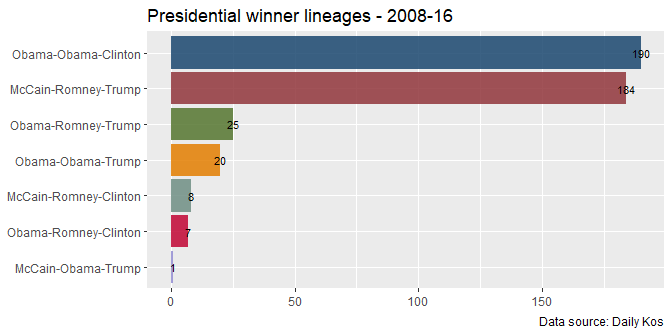
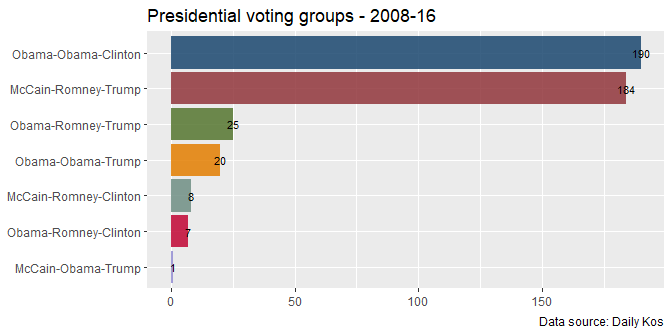
re

Changed region(s): [[0.3438, 0.0298, 0.6875, 0.0893]]

diff --git a/README.md b/README.md
@@ -1,11 +1,9 @@
 American political data & R: some open source resources & methods
 -----------------------------------------------------------------
 
-A layman's guide to accessing and exploring US political data from a collection of open government resources, including presidential election returns (2008-2016 by congressional district), lawmaker biographies & political ideologies, and congressional district demographics.
+A layman's guide to accessing and exploring US political data utilizing a collection of open government resources, including presidential election returns (2008-2016 by congressional district), lawmaker biographies & political ideologies, and congressional district demographics.
 
-Here, we integrate these resources to present ...
-
-Data presented here have been collated from [The Daily Kos](), [CivilServiceUSA](), and the R packages [tidycensus]() & [Rvoteview]().
+Data presented here have been collated from [The Daily Kos](https://www.dailykos.com/stories/2018/2/21/1742660/-The-ultimate-Daily-Kos-Elections-guide-to-all-of-our-data-sets), [CivilServiceUSA](https://github.com/CivilServiceUSA), and the R packages [tidycensus](https://walkerke.github.io/tidycensus/) & [Rvoteview](https://github.com/voteview/Rvoteview).
 
 -   [1 Lawmaker details](#1-Lawmaker-details)
 -   [2 Political Ideologies](#2-political-ideologies-and-congressional-composition)
@@ -124,7 +122,7 @@ csusa_house_dets %>%
                                  grow = F, 
                                  alpha = 0.65, 
                                  colour ="black",  
-                                 min.size = 0)+ 
+                                 size = 13)+ 
       treemapify::geom_treemap_text(colour = "white", 
                         place = "topleft", 
                         reflow = T,
@@ -456,8 +454,6 @@ us_house_districts %>%
        caption = 'Data source: ACS, 5-Year estimates, 2013-17, Table C15002')
 ```
 
-![](README_files/figure-markdown_github/unnamed-chunk-24-1.png)
-
 #### 5.3 Race & educational attainment profiles by district
 
 > Profiling congressional districts in terms of race/ethncitiy & educational attainment. Categories include *White with college degree*, *White without college degree*, *Non-White with college degree*, and *Non-White without college degree*. The **Non-White** population is defined more specifically as non-White (race) and/or Hispanic (ethnicity).
@@ -509,8 +505,6 @@ tree %>%
            caption = 'Source: ACS, 5-Year estimates, 2013-17, Table C15002')
 ```
 
-![](README_files/figure-markdown_github/unnamed-chunk-26-1.png)
-
 #### 5.4 White working class & Republican vote shares historically
 
 > A comparison of the relationship between the share of working class Whites and share of Republican candidate support by district for the last three presidential elections.
@@ -537,8 +531,6 @@ ggplot(data = by_pres, aes(x=Per_White_Working,
        caption = 'Data source: Daily Kos & American Community Survey')
 ```
 
-![](README_files/figure-markdown_github/unnamed-chunk-27-1.png)
-
 > **As the table below attests**, this relationship has grown stronger in the Trump era.
 
 ``` r
@@ -548,19 +540,13 @@ by_pres %>%
   knitr::kable()
 ```
 
-| candidate |  cor\_coefficient|
-|:----------|-----------------:|
-| McCain    |         0.6182315|
-| Romney    |         0.6603027|
-| Trump     |         0.7865170|
-
 ------------------------------------------------------------------------
 
 ### 6 Equal-area political geometries
 
-> The Daily Kos makes available a set of alternative geometries that represent congressional districts and states as equal-area polygons. As some of the maps presented above attest, America's larger states and congressional districts tend to overwhelm a standard map, and collectively serve to under-represent/hide smaller, more populous urban areas.
+> The Daily Kos makes available a set of alternative geometries that spatially represent congressional districts and states as equal-area polygons. As some of the maps presented above attest, America's larger states and congressional districts tend to overwhelm a standard map, and ultimately serve to under-represent/hide smaller, more populous urban areas.
 
-> **Links** to these shapefiles are presented below:
+> **Links** to these shapefiles are detailed below:
 
 ``` r
 base <- 'https://drive.google.com/uc?authuser=0&id='
@@ -597,7 +583,7 @@ dailykos_tile <- lapply (c(dailyvos_tile_inner,
 names(dailykos_tile) <- c('inner', 'outer')
 ```
 
-> Here we
+> An overview of Senate representation by state and party affiliation utilizing an equal-area tile map of US states.
 
 ``` r
 sens <- rvoteview_senate_50 %>%
@@ -612,7 +598,7 @@ sens <- rvoteview_senate_50 %>%
   select(congress, State, party_name, layer)
 ```
 
-> The tile map below demonstrates the evolution of US Senate composition by state and party affiliation over the last thirty congresses.
+> The tile map below illustrates the evolution of US Senate composition by state and party affiliation over the last thirty congresses. Indded a shifting landscape.
 
 ``` r
 dailykos_tile$outer %>% 
@@ -636,13 +622,13 @@ dailykos_tile$outer %>%
         legend.title=element_blank(),
         legend.position = 'bottom') +
   facet_wrap(~congress) +
-  labs(title = "US Senate Composition by Congress, State & Party: 6 snapshots",
+  labs(title = "US Senate Composition by Congress, State & Party in 6 snapshots",
        caption = 'Data sources: Daily Kos & VoteView')
 ```
 
 ![](README_files/figure-markdown_github/unnamed-chunk-34-1.png)
 
-> Count of states with **split Senate delegations** by congress/year. Split delegation = Senators from the same state with different party affiliations.
+> Counts of states with **split Senate delegations** by congress/year. Split delegation = Senators from the same state with different party affiliations.
 
 ``` r
 rvoteview_senate_50 %>%
@@ -715,7 +701,7 @@ dailykos_pres_flips %>%
   ggthemes::scale_fill_stata() +
   xlab(NULL) + ylab(NULL) +
   coord_flip() +
-  labs(title = 'Presidential winner lineages - 2008-16',
+  labs(title = 'Presidential voting groups - 2008-16',
        caption = 'Data source: Daily Kos')
 ```
 
@@ -818,4 +804,4 @@ plot_ly(
 
 ### 7 Summary
 
-Indeed, a work in progress. But hopefully a nice round-up of useful open source resources for investigating & visualizing federal election results.
+Hopefully a nice round-up of useful open source resources for investigating & visualizing federal election results. I will update & develop as things get updated & develop.
